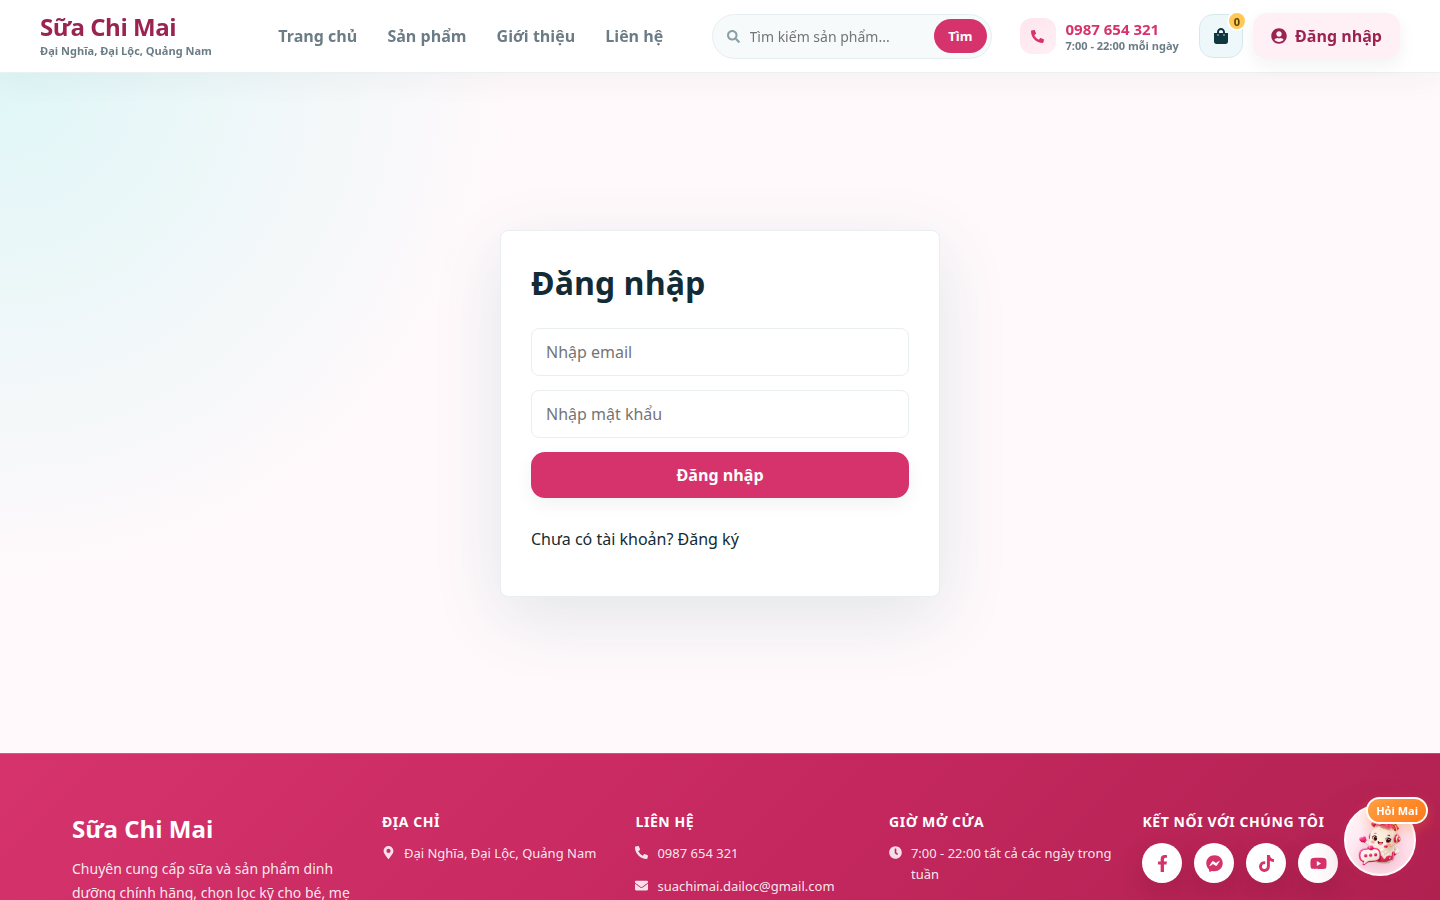
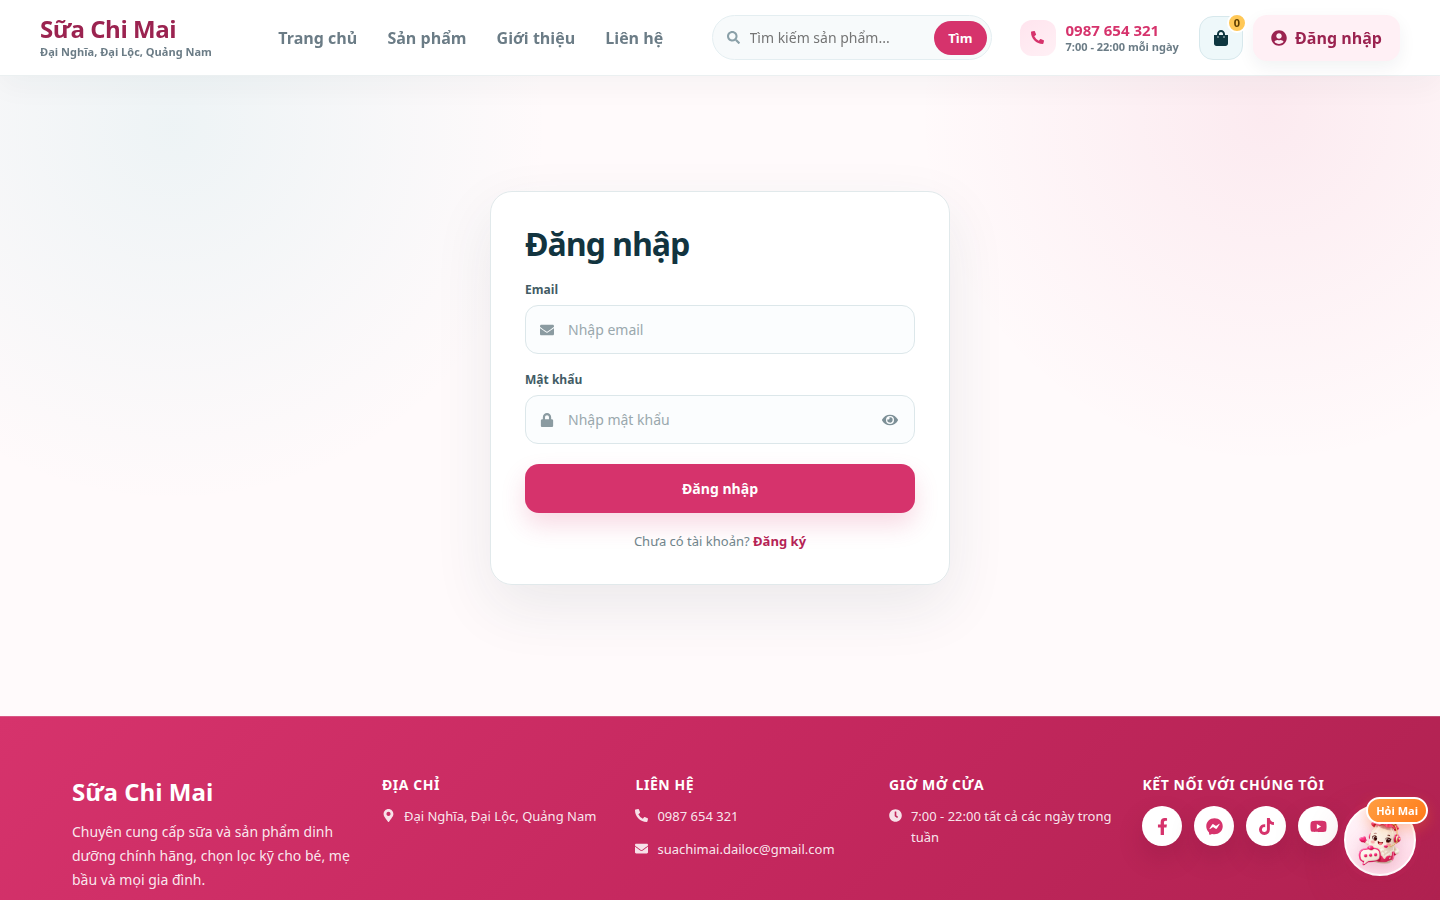
Polish the login form with labeled fields and a password toggle.

diff --git a/frontend/src/pages/LoginPage.jsx b/frontend/src/pages/LoginPage.jsx
@@ -1,4 +1,5 @@
 import { useState } from 'react';
+import { FaEnvelope, FaEye, FaEyeSlash, FaLock, FaPhoneAlt, FaUser } from 'react-icons/fa';
 import { Link, useLocation, useNavigate } from 'react-router-dom';
 import { useAuth } from '../context/AuthContext';
 import useDocumentMeta from '../hooks/useDocumentMeta';
@@ -48,45 +49,86 @@ export default function LoginPage() {
 }
 
 export function AuthForm({ title, message, form, setForm, submit, button, register = false, footer }) {
+  const [showPassword, setShowPassword] = useState(false);
+
   return (
     <section className="auth-page">
       <form className="auth-card" onSubmit={submit}>
-        <h1>{title}</h1>
+        <div className="auth-card-heading">
+          <h1>{title}</h1>
+        </div>
         {message && <div className="alert">{message}</div>}
         {register && (
-          <input
-            required
-            placeholder="Họ tên"
-            value={form.full_name}
-            onChange={(event) => setForm({ ...form, full_name: event.target.value })}
-          />
+          <label className="auth-field">
+            <span>Họ và tên</span>
+            <div className="auth-input-wrap">
+              <FaUser />
+              <input
+                required
+                placeholder="Nhập họ và tên"
+                autoComplete="name"
+                value={form.full_name}
+                onChange={(event) => setForm({ ...form, full_name: event.target.value })}
+              />
+            </div>
+          </label>
         )}
         {register && (
-          <input
-            required
-            placeholder="Số điện thoại"
-            value={form.phone}
-            onChange={(event) => setForm({ ...form, phone: event.target.value })}
-          />
+          <label className="auth-field">
+            <span>Số điện thoại</span>
+            <div className="auth-input-wrap">
+              <FaPhoneAlt />
+              <input
+                required
+                type="tel"
+                inputMode="tel"
+                placeholder="Nhập số điện thoại"
+                autoComplete="tel"
+                value={form.phone}
+                onChange={(event) => setForm({ ...form, phone: event.target.value })}
+              />
+            </div>
+          </label>
         )}
-        <input
-          required
-          type="email"
-          placeholder="Nhập email"
-          autoComplete="username"
-          value={form.email}
-          onChange={(event) => setForm({ ...form, email: event.target.value })}
-        />
-        <input
-          required
-          type="password"
-          placeholder="Nhập mật khẩu"
-          autoComplete="current-password"
-          value={form.password}
-          onChange={(event) => setForm({ ...form, password: event.target.value })}
-        />
-        <button className="btn primary full">{button}</button>
-        {footer}
+        <label className="auth-field">
+          <span>Email</span>
+          <div className="auth-input-wrap">
+            <FaEnvelope />
+            <input
+              required
+              type="email"
+              placeholder="Nhập email"
+              autoComplete="username"
+              value={form.email}
+              onChange={(event) => setForm({ ...form, email: event.target.value })}
+            />
+          </div>
+        </label>
+        <label className="auth-field">
+          <span>Mật khẩu</span>
+          <div className="auth-input-wrap auth-password-wrap">
+            <FaLock />
+            <input
+              required
+              type={showPassword ? 'text' : 'password'}
+              placeholder="Nhập mật khẩu"
+              autoComplete={register ? 'new-password' : 'current-password'}
+              value={form.password}
+              onChange={(event) => setForm({ ...form, password: event.target.value })}
+            />
+            <button
+              className="auth-password-toggle"
+              type="button"
+              aria-label={showPassword ? 'Ẩn mật khẩu' : 'Hiện mật khẩu'}
+              aria-pressed={showPassword}
+              onClick={() => setShowPassword((value) => !value)}
+            >
+              {showPassword ? <FaEyeSlash /> : <FaEye />}
+            </button>
+          </div>
+        </label>
+        <button className="btn primary full auth-submit" type="submit">{button}</button>
+        <div className="auth-footer">{footer}</div>
       </form>
     </section>
   );

diff --git a/frontend/src/styles.css b/frontend/src/styles.css
@@ -1753,9 +1753,114 @@ del { color: var(--muted); }
 }
 .summary p { display: flex; justify-content: space-between; gap: 12px; }
 .empty { text-align: center; min-height: 360px; display: grid; place-content: center; gap: 16px; }
-.auth-page { min-height: 680px; display: grid; place-items: center; padding: 32px; background: radial-gradient(circle at top left, #dff6f7, transparent 32%), var(--bg); }
-.auth-card { width: min(440px, 100%); background: white; border: 1px solid var(--line); border-radius: 8px; padding: 30px; display: grid; gap: 14px; box-shadow: 0 20px 70px rgba(27,91,106,.12); }
-.auth-card h1 { margin: 0 0 10px; }
+.auth-page {
+  min-height: 640px;
+  display: grid;
+  place-items: center;
+  padding: 48px 20px 64px;
+  background:
+    radial-gradient(circle at 12% 8%, rgba(62, 179, 190, .09), transparent 27%),
+    radial-gradient(circle at 88% 6%, rgba(214, 51, 108, .08), transparent 25%),
+    #fffafb;
+}
+.auth-card {
+  width: min(460px, 100%);
+  display: grid;
+  gap: 17px;
+  padding: 34px;
+  border: 1px solid #e1e9eb;
+  border-radius: 22px;
+  background: rgba(255, 255, 255, .97);
+  box-shadow: 0 22px 60px rgba(38, 67, 76, .09);
+}
+.auth-card-heading {
+  display: grid;
+  margin-bottom: 3px;
+}
+.auth-card h1 {
+  margin: 0;
+  color: #12343f;
+  font-size: 32px;
+  line-height: 1.1;
+  letter-spacing: -.035em;
+}
+.auth-field {
+  display: grid;
+  gap: 7px;
+}
+.auth-field > span {
+  color: #425b64;
+  font-size: 12px;
+  font-weight: 800;
+}
+.auth-input-wrap {
+  min-height: 49px;
+  display: grid;
+  grid-template-columns: 18px minmax(0, 1fr);
+  gap: 10px;
+  align-items: center;
+  padding: 0 14px;
+  border: 1px solid #dce7ea;
+  border-radius: 13px;
+  background: #fbfdfe;
+  transition: border-color .18s ease, background .18s ease, box-shadow .18s ease;
+}
+.auth-input-wrap:focus-within {
+  border-color: rgba(214, 51, 108, .52);
+  background: #fff;
+  box-shadow: 0 0 0 4px rgba(214, 51, 108, .08);
+}
+.auth-input-wrap > svg {
+  color: #8b9ba1;
+  font-size: 14px;
+}
+.auth-input-wrap input {
+  width: 100%;
+  min-width: 0;
+  height: 47px;
+  padding: 0;
+  border: 0;
+  outline: 0;
+  background: transparent;
+  color: #183b46;
+  font-size: 14px;
+  box-shadow: none;
+}
+.auth-input-wrap input:focus { border: 0; outline: 0; box-shadow: none; }
+.auth-input-wrap input::placeholder { color: #9aa8ad; }
+.auth-password-wrap { grid-template-columns: 18px minmax(0, 1fr) 34px; padding-right: 7px; }
+.auth-password-toggle {
+  width: 34px;
+  height: 34px;
+  display: grid;
+  place-items: center;
+  padding: 0;
+  border: 0;
+  border-radius: 9px;
+  background: transparent;
+  color: #7d9097;
+  cursor: pointer;
+  transition: background .18s ease, color .18s ease;
+}
+.auth-password-toggle:hover { background: #f6edf1; color: #b42557; }
+.auth-password-toggle:focus-visible { outline: 2px solid rgba(214, 51, 108, .35); outline-offset: 1px; }
+.auth-submit {
+  min-height: 49px;
+  margin-top: 3px;
+  border-radius: 13px;
+  font-size: 14px;
+  box-shadow: 0 12px 25px rgba(214, 51, 108, .18);
+}
+.auth-footer {
+  padding-top: 2px;
+  color: #70848b;
+  font-size: 13px;
+  text-align: center;
+}
+.auth-footer p { margin: 0; }
+.auth-footer a { color: #b52255; font-weight: 850; }
+.auth-footer a:hover { color: #d6336c; }
+.auth-card .alert { margin: -2px 0 1px; font-size: 12px; line-height: 1.5; }
 .alert, .success { border-radius: 8px; padding: 12px; font-weight: 700; }
 .alert { background: #fff1f1; color: #a33; }
 .success { background: #eaf8ee; color: #2b7442; }
